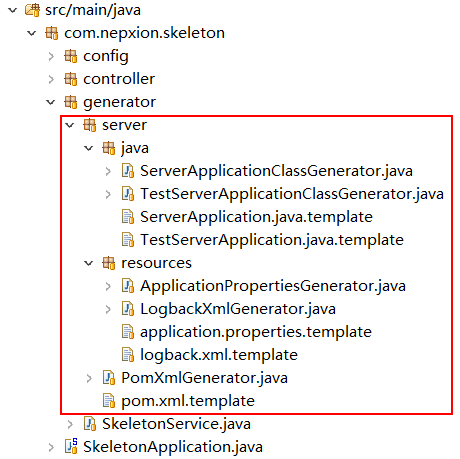
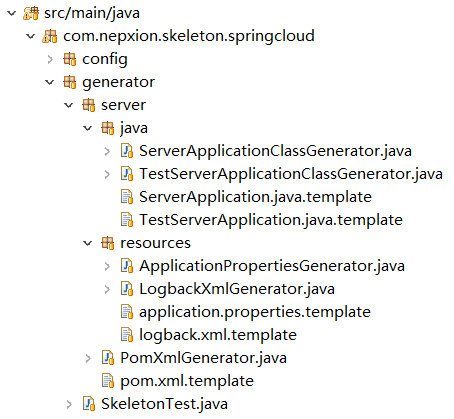
修改介绍

Changed region(s): [[0.0, 0.0, 0.9868, 0.9928]]

diff --git a/README.md b/README.md
@@ -45,9 +45,9 @@ Nepxion Skeleton是一款基于FreeMarker的对任何文本格式的代码和文
 ## 示例
 
 ### 本地使用方式
-运行com.nepxion.skeleton.generator.SkeletonTest.java类，可在本地创建脚手架文件
+运行com.nepxion.skeleton.springcloud.generator.SkeletonTest.java类，可在本地创建脚手架文件
 ```java
-package com.nepxion.skeleton.generator;
+package com.nepxion.skeleton.springcloud.generator;
 
 /**
  * <p>Title: Nepxion Skeleton</p>
@@ -59,9 +59,11 @@ package com.nepxion.skeleton.generator;
  * @version 1.0
  */
 
-import com.nepxion.skeleton.constant.SkeletonConstant;
-import com.nepxion.skeleton.property.SkeletonProperties;
-import com.nepxion.skeleton.util.SkeletonUtil;
+import com.nepxion.skeleton.engine.constant.SkeletonConstant;
+import com.nepxion.skeleton.engine.property.SkeletonProperties;
+import com.nepxion.skeleton.engine.util.SkeletonUtil;
+import com.nepxion.skeleton.framework.service.SkeletonService;
+import com.nepxion.skeleton.springcloud.service.SkeletonServiceImpl;
 
 public class SkeletonTest {
     public static void main(String[] args) {
@@ -77,7 +79,7 @@ public class SkeletonTest {
             // String prefixTemplateDirectory = null;
 
             // 模板目录缩减
-            String reducedTemplateDirectory = "com/nepxion/skeleton/generator/";
+            String reducedTemplateDirectory = "com/nepxion/skeleton/springcloud/generator/";
             // String reducedTemplateDirectory = null;
 
             // 描述规则的配置文件所在的路径
@@ -88,7 +90,7 @@ public class SkeletonTest {
             SkeletonProperties skeletonProperties = new SkeletonProperties(propertiesPath, SkeletonConstant.ENCODING_GBK, SkeletonConstant.ENCODING_UTF_8);
 
             // 输出脚手架文件
-            SkeletonService skeletonService = new SkeletonService();
+            SkeletonService skeletonService = new SkeletonServiceImpl();
             skeletonService.generator(generatePath, prefixTemplateDirectory, reducedTemplateDirectory, skeletonProperties);
         } catch (Exception e) {
             e.printStackTrace();
@@ -116,8 +118,10 @@ eureka.client.serviceUrl.defaultZone=http://cluster-1:1111/eureka/,http://cluste
 # Skeleton config
 # 模板文件所在的前置目录名
 skeleton.prefix.template.directory=template
+# 模板文件所在的目录根据传入的Key动态切换，不设置则表示不切换
+skeleton.dynamic.template.directory.key=
 # 模板目录缩减，考虑到模板目录和类目录必须一致，会导致目录目录太长，可以缩减掉一部分
-skeleton.reduced.template.directory=com/nepxion/skeleton/generator/
+skeleton.reduced.template.directory=com/nepxion/skeleton/springcloud/generator/
 # 在前端下载zip包名
 skeleton.generate.file.name=spring-cloud-skeleton
 # 在后端生成zip包的放置目录，不设置则放在操作系统的临时目录下
